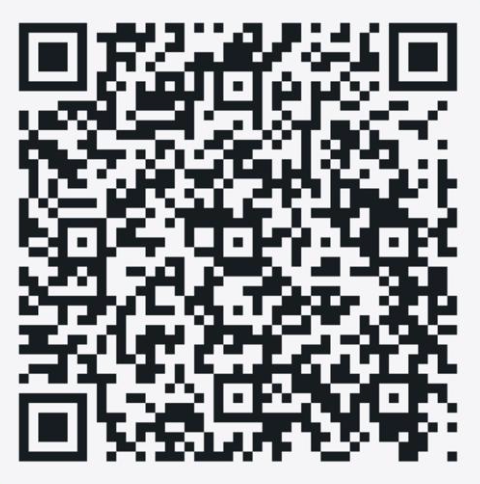
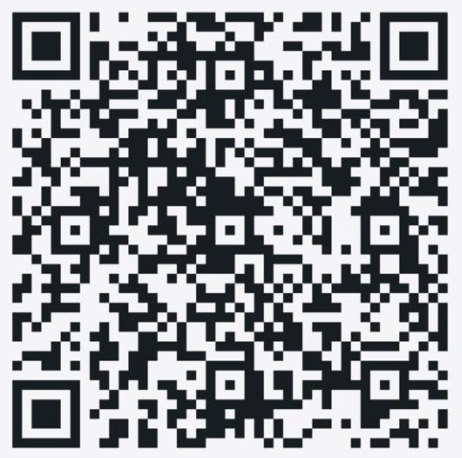
last commit before party

diff --git a/client/admin.html b/client/admin.html
@@ -805,7 +805,7 @@
 
                 <h4 style="color:#FFD700; margin-bottom:15px; text-align: center; font-size: 1.4rem;">או שלח תשלום
                     לטלפון</h4>
-                <p style="color: white; text-align: center; font-size: 1.2rem; margin-bottom: 25px;">054-5229997</p>
+                <p style="color: white; text-align: center; font-size: 1.2rem; margin-bottom: 25px;">054-4491343</p>
             </div>
         </div>
     </div>
